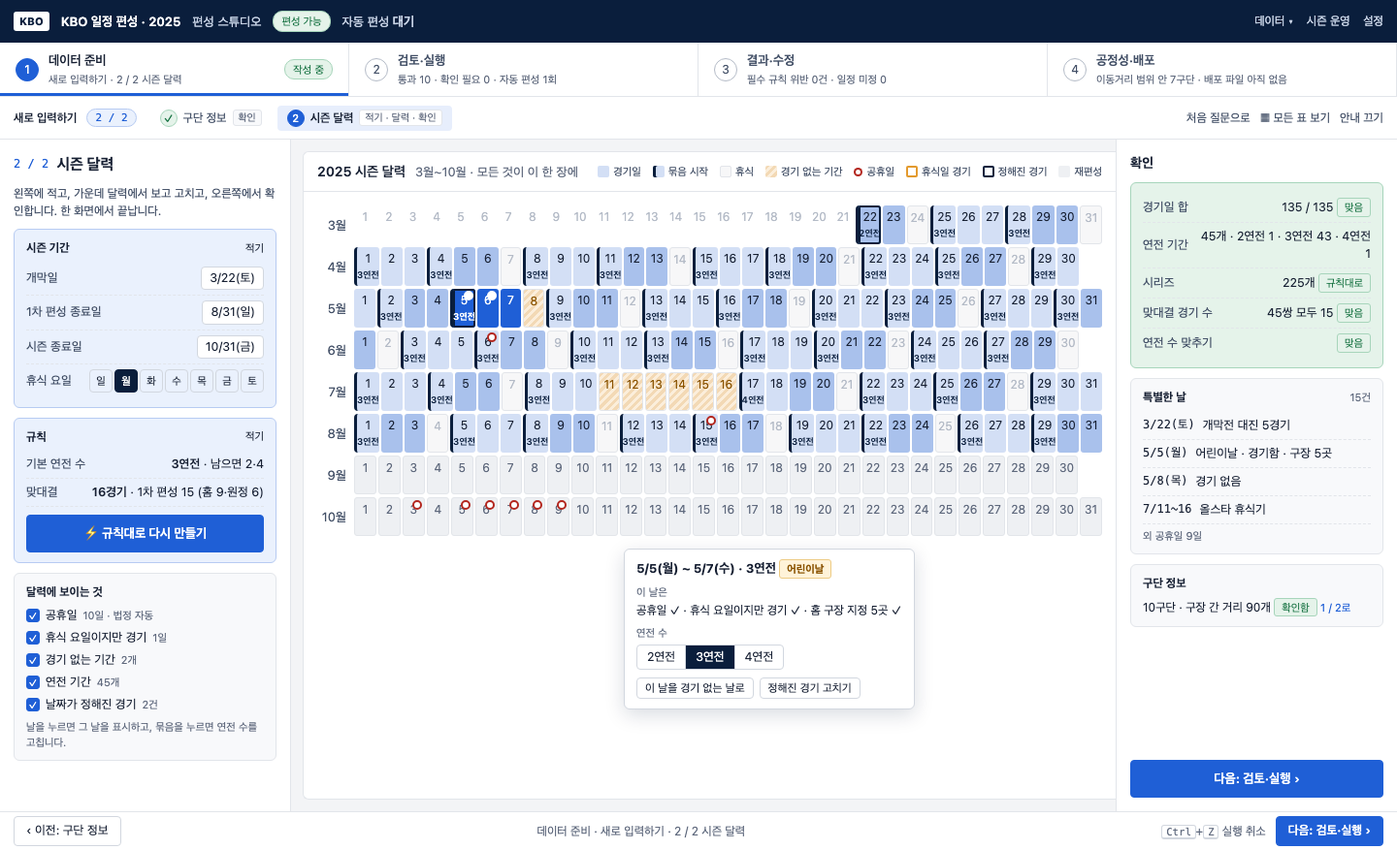
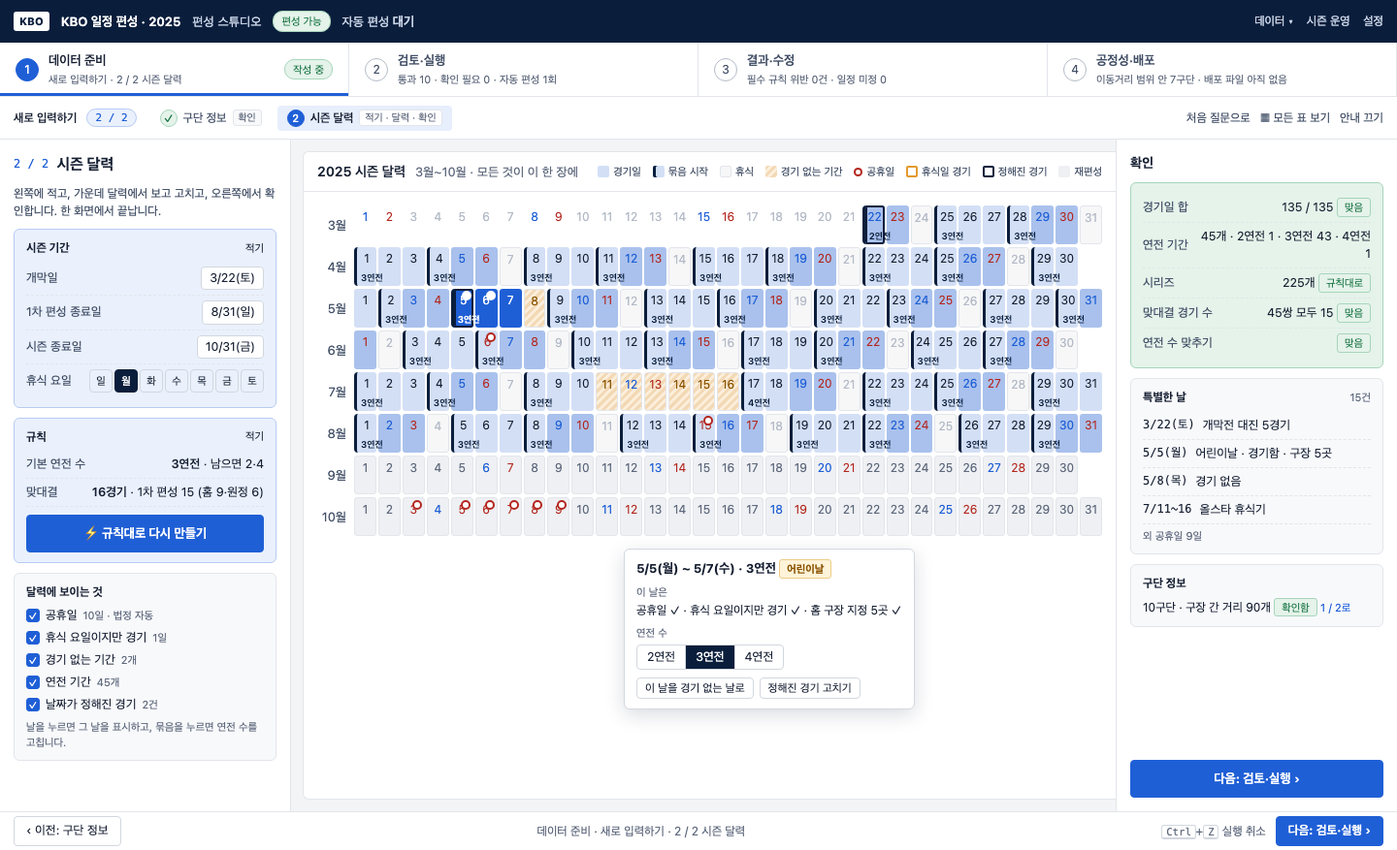
편성 스튜디오 ① 입력 흐름 추천안 R: 2025 공식 일정표(PDF)로 연전 관행을 확인해 규칙 4줄로 적고, 시즌 연도를 고르면 주말·공휴일이 먼저 표시되는 2027 달력 시안을 더한다(달력 색은 공식 표처럼 토 파랑·일/공휴일 빨강).
2027·2028 음력 공휴일·대체공휴일 표(검색 확인, 고시로 최종 확인 필요).

Changed region(s): [[0.25, 0.2463, 0.7812, 0.5542]]

diff --git a/ui-archive/input-flow-concepts/r-screen.js b/ui-archive/input-flow-concepts/r-screen.js
@@ -1,58 +1,74 @@
 /*
- * 추천안 R — 입력은 모두 한 화면(시즌 달력). r-calendar / r-tutorial / r-excel이 같이 쓴다.
- * 왼쪽: 구단 정보(접음) · 시즌 기간 · 공휴일(가중치) · 연전 규칙 / 가운데: 달력(끌어서 묶음, 눌러서 홈 구장) / 오른쪽: 고른 날 · 확인 · 엑셀
+ * 추천안 R — 입력은 모두 한 화면(시즌 달력). r-calendar / r-tutorial / r-excel / r-2027이 같이 쓴다.
+ * 왼쪽: 구단 정보(접음) · 시즌 기간(연도 고르기) · 공휴일(가중치) · 연전 규칙 / 가운데: 달력(끌어서 묶음, 눌러서 홈 구장) / 오른쪽: 고른 날 · 확인 · 엑셀
+ * 연전 규칙은 「2025 KBO 정규시즌 경기 일정」 공식 표(PDF)에서 읽은 관행이다.
  */
 (function () {
   'use strict';
   const C = window.Concept;
-  const S = Object.assign({}, C.S2025, { restExceptions: [], blackouts: [] }); // 묶음이 곧 경기일: 휴식기·휴식일 경기는 따로 적지 않는다
   const base = C.slots(C.S2025); // 2025 실제 묶음 45개(올스타 휴식기는 묶음이 없는 것으로 표현)
   const W = (h) => (/어린이날/.test(h.name) ? 3 : 2);
-  const sel = (o) => (o.sel ? base.findIndex((s) => C.D.iso(s.start) === o.sel) : -1);
+  const WDN = ['일', '월', '화', '수', '목', '금', '토'];
 
   window.renderR = function (o) {
     o = o || {};
-    C.chrome({ at: 1, noBand: true, prev: null, next: '검토·실행', mode: '한 화면 입력', sum: '시즌 달력 한 화면 · 경기일 135 / 135', pill: 'ok', pillText: '편성 가능', steps: [{ name: '시즌 달력' }] });
-    const hol = S.holidays.filter((h) => h.date <= S.initialEnd);
+    const blank = !!o.blank, year = o.year || 2025;
+    const S = o.S || Object.assign({}, C.S2025, { restExceptions: [], blackouts: [] }); // 묶음이 곧 경기일: 휴식기·휴식일 경기는 따로 적지 않는다
+    const slots = blank ? [] : base;
+    const have = slots.reduce((s, x) => s + x.len, 0), hist = C.hist(slots);
+    const cnt = have === 135 ? '<span class="stat ok">맞음</span>' : '<span class="stat todo">' + (135 - have) + '일 남음</span>';
+    const cntStyle = have === 135 ? 'border:1px solid var(--ok-line);background:var(--ok-bg);color:var(--ok)' : 'border:1px solid var(--line-2);background:var(--surface-2);color:var(--text-2)';
+    C.chrome({ at: 1, noBand: true, prev: null, next: '검토·실행', mode: '한 화면 입력', sum: '시즌 달력 한 화면 · 경기일 ' + have + ' / 135', pill: blank ? 'todo' : 'ok', pillText: blank ? '작성 중' : '편성 가능', steps: [{ name: '시즌 달력' }] });
+    const hol = (blank ? C.holidaysOf(year) : S.holidays).filter((h) => h.date.slice(5) >= '03' && h.date.slice(5) <= (blank ? '08-31' : S.initialEnd.slice(5)));
+    const dv = (iso) => (iso ? C.D.short(C.D.dn(iso)) + '(' + WDN[C.D.wd(C.D.dn(iso))] + ')' : '');
     const left =
       '<aside class="card" style="width:330px;gap:8px;padding:10px 12px">' +
       '<div class="box" style="padding:8px 12px"><h4 style="margin:0">구단 정보 <span class="r"><span class="stat ok">확인함</span><a class="xs">펼쳐서 고치기 ▾</a></span></h4><div class="xs muted" style="margin-top:2px">10구단 · 구장 위치 · 구장 간 거리 90개(도로 45쌍)</div></div>' +
       '<div class="box blue"><h4>시즌 기간 <span class="r xs">적기</span></h4>' +
-      fld('개막일', '3/22(토)') + fld('1차 편성 종료일', '8/31(일)') + fld('시즌 종료일', '10/31(금)') +
-      '<div class="line"><span class="k">휴식 요일</span><span class="v wd" style="gap:2px">' + ['일', '월', '화', '수', '목', '금', '토'].map((d) => '<span style="width:22px;height:22px;font-size:11px"' + (d === '월' ? ' class="on"' : '') + '>' + d + '</span>').join('') + '</span></div>' +
-      '<div class="xs muted" style="margin-top:4px">1차 편성 15경기 × 9상대 = <b>경기일 135일</b>이 필요합니다. 9월~10월은 재편성 기간입니다.</div></div>' +
+      '<div class="line"><span class="k">시즌 연도</span><span class="v"><span style="display:inline-block;border:1px solid var(--line-2);border-radius:4px;padding:1px 8px;background:#fff;font-weight:600">' + year + ' ▾</span> <span class="xs muted">고르면 주말·공휴일이 달력에 표시됩니다</span></span></div>' +
+      fld('개막일', dv(S.seasonStart), blank) + fld('1차 편성 종료일', dv(S.initialEnd), blank) + fld('시즌 종료일', dv(S.seasonEnd), blank) +
+      '<div class="line"><span class="k">휴식 요일</span><span class="v wd" style="gap:2px">' + WDN.map((d) => '<span style="width:22px;height:22px;font-size:11px"' + (d === '월' ? ' class="on"' : '') + '>' + d + '</span>').join('') + '</span></div>' +
+      '<div class="xs muted" style="margin-top:4px">1차 편성 15경기 × 9상대 = <b>경기일 135일</b>이 필요합니다. 그 뒤는 미편성 45경기 + 우천 취소분을 넣는 재편성 기간입니다.</div></div>' +
+      '<div class="box"><h4>연전 규칙 <span class="r"><span class="stat ok" style="font-size:10px">2025 공식 일정표로 확인</span></span></h4>' +
+      '<div class="line"><span class="k">기본</span><span class="v">화·수·목 <b>3연전</b> / 금·토·일 <b>3연전</b> · 월요일 휴식</span></div>' +
+      '<div class="line"><span class="k">개막 주</span><span class="v">개막일부터 일요일까지 한 묶음(토 개막 → 2연전)</span></div>' +
+      '<div class="line"><span class="k">월요일 공휴일</span><span class="v">그 날 경기, 목요일 휴식(어린이날 월·화·수)</span></div>' +
+      '<div class="line"><span class="k">올스타 휴식기</span><span class="v">금~수 6일 · 뒤 목~일 <b>4연전</b></span></div>' +
+      '<div style="margin-top:8px"><span class="btn pri big">⚡ 규칙대로 채우기</span></div><div class="xs muted" style="margin-top:6px">채운 뒤 달력에서 끌어서 고칩니다. 묶음이 없는 날이 경기 없는 날입니다.</div></div>' +
       '<div class="box blue"><h4>공휴일 <span class="r"><span class="btn sm">⚡ 법정 공휴일 채우기</span></span></h4>' +
       '<table class="t" style="font-size:12px"><tr><th>날짜</th><th>이름</th><th class="num">가중치</th></tr>' +
-      hol.map((h) => '<tr><td class="mono">' + C.D.short(C.D.dn(h.date)) + '</td><td>' + h.name + '</td><td class="num"><span style="border:1px solid var(--line-2);border-radius:3px;padding:0 6px;background:#fff">' + W(h) + '</span></td></tr>').join('') +
+      hol.map((h) => '<tr><td class="mono">' + dv(h.date) + '</td><td>' + h.name + '</td><td class="num"><span style="border:1px solid var(--line-2);border-radius:3px;padding:0 6px;background:#fff">' + W(h) + '</span></td></tr>').join('') +
       '</table><div style="display:flex;gap:8px;align-items:center;margin-top:6px"><span class="btn sm">+ 줄 추가</span><span class="xs muted">가중치 = 홈 경기 공정성에서 이 날의 가치(주말 하루 1)</span></div>' +
-      '<div class="xs" style="margin-top:4px"><span class="stat warn" style="font-size:10px">기본값(공휴일 2 · 어린이날 3)은 KBO 확인 필요</span></div></div>' +
-      '<div class="box"><h4>연전 규칙</h4><div class="line"><span class="k">기본</span><span class="v"><b>3연전</b> · 주중 화~목 / 주말 금~일</span></div><div class="line"><span class="k">남는 날</span><span class="v">2일 → 2연전 · 4일 → 4연전</span></div>' +
-      '<div style="margin-top:8px"><span class="btn pri big">⚡ 규칙대로 채우기</span></div><div class="xs muted" style="margin-top:6px">채운 뒤 달력에서 끌어서 고칩니다. <span class="stat warn" style="font-size:10px">규칙 문구는 첨부 파일로 확정</span></div></div>' +
+      '<div class="xs" style="margin-top:4px"><span class="stat warn" style="font-size:10px">기본값(공휴일 2 · 어린이날 3)은 KBO 확인 필요</span>' + (blank ? ' <span class="xs muted">' + year + '년 음력 공휴일·대체공휴일은 내장 표에서</span>' : '') + '</div></div>' +
       '</aside>';
-    const si = sel(o);
+    const si = o.sel ? slots.findIndex((s) => C.D.iso(s.start) === o.sel) : -1;
     const main =
       '<main class="main" style="margin:12px 0 12px 12px;border-radius:6px 0 0 6px;border-right:0">' +
-      '<div class="head" style="padding:8px 14px"><b style="white-space:nowrap">시즌 달력</b><span class="desc" style="white-space:nowrap">3월~8월 · 1차 편성 기간</span>' +
-      '<span style="margin-left:10px;display:inline-flex;align-items:center;gap:8px;border:1px solid var(--ok-line);background:var(--ok-bg);border-radius:6px;padding:3px 12px;white-space:nowrap"><span style="font-size:15px;font-weight:700;color:var(--ok)">경기일 135 / 135일</span><span class="stat ok">맞음</span></span>' +
-      '<span class="small muted" style="white-space:nowrap">2연전 1 · 3연전 43 · 4연전 1 · 묶음 45개</span></div>' +
+      '<div class="head" style="padding:8px 14px"><b style="white-space:nowrap">' + year + ' 시즌 달력</b><span class="desc" style="white-space:nowrap">3월~8월 · 1차 편성 기간</span>' +
+      '<span style="margin-left:10px;display:inline-flex;align-items:center;gap:8px;border-radius:6px;padding:3px 12px;white-space:nowrap;' + cntStyle + '"><span style="font-size:15px;font-weight:700">경기일 ' + have + ' / 135일</span>' + cnt + '</span>' +
+      '<span class="small muted" style="white-space:nowrap">' + (blank ? '아직 묶음이 없습니다 — 「규칙대로 채우기」나 끌어서 만듭니다' : '2연전 ' + (hist[2] || 0) + ' · 3연전 ' + (hist[3] || 0) + ' · 4연전 ' + (hist[4] || 0) + ' · 묶음 ' + slots.length + '개') + '</span></div>' +
       '<div class="body2" style="position:relative;padding:8px 14px 12px" id="rcal">' +
-      '<div style="display:flex;justify-content:flex-end;margin-bottom:6px">' + C.legend([['game', '경기일'], ['ss', '묶음 시작'], ['rest', '경기 없음'], ['hol', '공휴일'], ['ev', '홈 구장 지정'], ['sel', '고른 묶음']]) + '</div>' +
-      C.strip({ S, from: 3, to: 8, slots: base, big: true, sel: si, onCell: o.onCell }) +
-      '<div class="small muted" style="margin-top:10px;display:flex;gap:18px"><span>⟷ 날짜를 <b>끌면</b> 연전 묶음(2·3·4연전)</span><span>▣ 묶음을 <b>누르면</b> 연전 수 바꾸기 · 지우기</span><span>○ 날을 <b>누르면</b> 홈 구장 지정</span><span>7/11~16은 묶음이 없어 경기 없음(올스타)</span></div>' +
+      '<div style="display:flex;justify-content:flex-end;margin-bottom:6px">' + C.legend([['game', '경기일'], ['ss', '묶음 시작'], ['rest', '경기 없음'], ['hol', '공휴일(빨강)'], ['sat', '토요일(파랑)'], ['ev', '홈 구장 지정'], ['sel', '고른 묶음']]) + '</div>' +
+      C.strip({ S, year, from: 3, to: 8, slots, big: true, sel: si, onCell: o.onCell, noGame: blank, layers: blank ? { range: 0, event: 0 } : {} }) +
+      '<div class="small muted" style="margin-top:10px;display:flex;gap:18px"><span>⟷ 날짜를 <b>끌면</b> 연전 묶음(2·3·4연전)</span><span>▣ 묶음을 <b>누르면</b> 연전 수 바꾸기 · 지우기</span><span>○ 날을 <b>누르면</b> 홈 구장 지정</span>' + (blank ? '<span>주말·공휴일은 연도에서 자동(공식 일정표처럼 토 파랑 · 일·공휴일 빨강)</span>' : '<span>7/11~16은 묶음이 없어 경기 없음(올스타)</span>') + '</div>' +
       (o.pop || '') +
       '</div></main>';
-    const right =
-      '<aside class="card" style="width:280px;border-left:1px solid var(--line);border-right:0;gap:10px">' +
+    const pick = blank ?
+      '<div class="box"><h4>고른 날</h4><div class="small muted">달력에서 날을 누르면 여기서 홈 구장을 지정합니다(개막전·어린이날). 공휴일은 왼쪽 표에서 적습니다.</div></div>' :
       '<div class="box blue"><h4>고른 날 · 5/5(월) <span class="r xs muted">어린이날·부처님오신날</span></h4>' +
       '<div class="line"><span class="k">연전</span><span class="v">5/5(월)~5/7(수) 3연전</span></div><div class="line"><span class="k">공휴일</span><span class="v">가중치 3 <span class="xs muted">(왼쪽 표)</span></span></div>' +
       '<div style="margin-top:8px"><span class="tog"><i class="on"></i><b>홈 구장 지정</b></span><div class="xs muted" style="margin:2px 0 6px">이 날 홈 경기를 해야 하는 구단 5곳을 고릅니다. 상대는 자동 편성이 정합니다.</div>' +
       '<div style="display:flex;flex-wrap:wrap;gap:4px">' + ['SSG', '두산', 'LG', 'KT', '키움', '한화', '삼성', 'KIA', 'NC', '롯데'].map((t) => '<span class="btn sm"' + (['두산', '키움', '한화', 'NC', '롯데'].includes(t) ? ' style="background:var(--navy);color:#fff;border-color:var(--navy)"' : '') + '>' + t + '</span>').join('') + '</div>' +
-      '<div class="xs muted" style="margin-top:6px">잠실은 두산·LG 중 하나만. 개막전 3/22도 같은 방법으로.</div></div></div>' +
-      '<div class="box ok"><h4>확인</h4><div class="line"><span class="k">경기일 합</span><span class="v">135 / 135 <span class="stat ok">맞음</span></span></div><div class="line"><span class="k">홈 구장 지정</span><span class="v">3/22 개막전 5곳 · 5/5 어린이날 5곳</span></div><div class="line"><span class="k">시리즈</span><span class="v">규칙대로 225개 <span class="stat ok">맞음</span></span></div><div class="xs muted" style="margin-top:4px">맞대결 16경기 = 1차 편성 15(홈 9·원정 6) + 재편성 1. 날짜는 ② 자동 편성이 정합니다. <a>자세히</a></div></div>' +
+      '<div class="xs muted" style="margin-top:6px">잠실은 두산·LG 중 하나만. 개막전 3/22도 같은 방법으로.</div></div></div>';
+    const right =
+      '<aside class="card" style="width:280px;border-left:1px solid var(--line);border-right:0;gap:10px">' + pick +
+      '<div class="box ' + (blank ? '' : 'ok') + '"><h4>확인</h4><div class="line"><span class="k">경기일 합</span><span class="v">' + have + ' / 135 ' + cnt + '</span></div><div class="line"><span class="k">홈 구장 지정</span><span class="v">' + (blank ? '<span class="stat todo">아직 없음</span>' : '3/22 개막전 5곳 · 5/5 어린이날 5곳') + '</span></div><div class="line"><span class="k">시리즈</span><span class="v">' + (blank ? '<span class="stat todo">묶음 45개 뒤 규칙으로</span>' : '규칙대로 225개 <span class="stat ok">맞음</span>') + '</span></div><div class="xs muted" style="margin-top:4px">맞대결 16경기 = 1차 편성 15(홈 9·원정 6) + 미편성 1(홈 정해 둠, 재편성에서). 날짜는 ② 자동 편성이 정합니다. <a>자세히</a></div></div>' +
       '<div class="box"><h4>엑셀로 한꺼번에</h4><div style="display:flex;flex-direction:column;gap:6px"><span class="btn sm">⬇ 지금 데이터로 서식 내려받기</span><span class="btn sm">⬆ 채운 파일 올리기</span></div><div class="xs muted" style="margin-top:6px">시트 4개: 구단 정보 · 시즌 기간과 공휴일 · 연전 기간 · 홈 구장 지정</div></div>' +
       '<div style="margin-top:auto"><span class="btn sm ghost">▶ 따라 하기 다시 보기</span></div>' +
       '</aside>';
     document.querySelector('.body').innerHTML = left + main + right;
   };
-  function fld(k, v) { return '<div class="line"><span class="k">' + k + '</span><span class="v"><span style="display:inline-block;border:1px solid var(--line-2);border-radius:4px;padding:1px 8px;background:#fff;min-width:80px">' + v + '</span></span></div>'; }
+  function fld(k, v, blank) {
+    return '<div class="line"><span class="k">' + k + '</span><span class="v"><span style="display:inline-block;border:1px ' + (v ? 'solid var(--line-2)' : 'dashed var(--line-3)') + ';border-radius:4px;padding:1px 8px;background:#fff;min-width:80px;' + (v ? '' : 'color:var(--text-3)') + '">' + (v || '적어 주세요') + '</span>' + (blank && !v ? '' : '') + '</span></div>';
+  }
 })();

diff --git a/ui-archive/input-flow-concepts/index.html b/ui-archive/input-flow-concepts/index.html
@@ -59,11 +59,12 @@
   <div class="shots">
     <figure><img src="shots/r-calendar.png" alt=""><figcaption><b>시즌 달력 한 화면</b> — 머리에 「경기일 135 / 135일」 계수기, 7/17 4연전 묶음을 눌러 연전 수·나누기·지우기, 5/5를 눌러 오른쪽에서 홈 구장 5곳 <a href="r-calendar.html">열기</a></figcaption></figure>
     <figure><img src="shots/r-tutorial.png" alt=""><figcaption><b>따라 하기 1 / 4</b> — 처음 한 번, 2025 예시로 「4/8~4/10을 끌어 보세요」 → 묶음 눌러 연전 수 → 어린이날 눌러 홈 구장 → 경기일 합 맞추기 <a href="r-tutorial.html">열기</a></figcaption></figure>
+    <figure><img src="shots/r-2027.png" alt=""><figcaption><b>2027년을 고르면</b> — 개막일을 적기 전에도 주말(토 파랑 · 일 빨강)과 공휴일(빨강 ○, 왼쪽 표에 2027 공휴일)이 먼저 표시됩니다. 공식 일정표의 색 규칙과 같습니다 <a href="r-2027.html">열기</a></figcaption></figure>
     <figure><img src="shots/r-excel.png" alt=""><figcaption><b>엑셀로 한꺼번에</b> — 지금 데이터가 채워진 서식(시트 4: 구단 정보 · 시즌 기간과 공휴일(가중치 열) · 연전 기간(비우면 규칙) · 홈 구장 지정)을 내려받아 고쳐 올리고, 검사 뒤 달력에 반영 <a href="r-excel.html">열기</a></figcaption></figure>
   </div>
   <div class="cols">
     <div class="good"><h4>장점</h4><ul><li>입력 화면이 하나 — 「입력인지 확인인지」 질문 자체가 사라짐</li><li>표 넷(공휴일·휴식일 경기·휴식기·특별 경기)이 표 하나(공휴일)와 메뉴 하나(홈 구장)로 줆</li><li>묶음을 그릴 때마다 경기일 합이 바로 보여 135에 맞추는 과정이 눈에 보임</li><li>엑셀·튜토리얼이 같은 화면에 붙어 흐름이 끊기지 않음</li></ul></div>
-    <div class="bad"><h4>단점 · 위험</h4><ul><li><b>연전 규칙이 아직 모호</b> — 규칙이 틀리면 「규칙대로 채우기」 뒤 고칠 곳이 많아져 손으로 그리는 것과 다름없어짐(첨부 파일로 확정 필요)</li><li>묶음 지우기(휴식기 만들기)가 끌기만큼 쉬워야 함</li><li>공휴일 가중치 기본값(2·3)은 KBO 확인 전까지 가정</li><li>코어 변경: 날짜별 가중치가 공정성 계산(calendar-gen·score·Java Calendar.holiday)까지 감</li></ul></div>
+    <div class="bad"><h4>단점 · 위험</h4><ul><li>연전 규칙은 2025 공식 일정표(PDF)로 확인함: 화·수·목 / 금·토·일 3연전, 월 휴식, 개막 토·일 2연전, 월요일 공휴일이면 그 날 경기·목 휴식, 올스타 휴식기 금~수 뒤 목~일 4연전 — 다른 해에도 같은지는 확인 필요</li><li>묶음 지우기(휴식기 만들기)가 끌기만큼 쉬워야 함</li><li>공휴일 가중치 기본값(2·3)은 KBO 확인 전까지 가정</li><li>코어 변경: 날짜별 가중치가 공정성 계산(calendar-gen·score·Java Calendar.holiday)까지 감</li></ul></div>
     <div class="who"><h4>누구에게 · 구현</h4><ul><li>해마다 편성하는 담당자(엑셀 왕복) + 처음 보는 사람(따라 하기) 모두</li><li>1440에서 세 칸(330 · 달력 · 280)이 들어감, 달력 셀 약 24px</li><li>구현 순서: 묶음 달력(끌기·누르기) → 계수기 → 홈 구장 패널 → 공휴일 가중치(코어) → 엑셀 서식·읽기 → 따라 하기</li></ul></div>
   </div>
 </section>
@@ -157,7 +158,12 @@
 
 <section id="q">
   <h2>확인이 필요한 것 (KBO 관행 — 추측하지 않고 묻습니다)</h2>
+  <div class="q" style="background:var(--ok-bg);border-color:#A7D5BB;margin-bottom:12px">
+    <b>2025 공식 일정표(PDF)로 확인된 것(2026-10-27)</b>
+    <ul><li>화·수·목 3연전 / 금·토·일 3연전, 월요일 휴식. 개막 3/22(토)~23(일) 2연전, 3/24(월) 휴식, 3/25(화)부터 3연전.</li><li>어린이날 5/5(월) 경기 — 5/5~5/7 월·화·수 3연전, 5/8(목) 휴식, 5/9(금)부터 다시 금·토·일.</li><li>올스타 브레이크 7/11(금)~7/16(수), 7/17(목)~7/20(일) 4연전.</li><li>1차 편성은 8/31(일)까지. 표 끝에 「미편성」 45경기(맞대결마다 1경기, 구장 정해져 있음)가 따로 있음 — 맞대결 16경기 = 1차 15 + 미편성 1.</li><li>공식 표의 색: 토요일 파랑, 일요일·공휴일 빨강(5/5·5/6·6/6·8/15). 시안의 달력도 같은 색으로 바꿈.</li></ul>
+  </div>
   <div class="q">
+    <b>아직 남은 것</b>
     <ul>
       <li><b>연전 기간 규칙</b>: 주중 화·수·목, 주말 금·토·일 3연전이 기본이고 월요일 휴식이 맞는지. 시안의 「기본 연전 수 3연전」 규칙 한 줄이 충분한지, 아니면 「주중/주말 따로」가 필요한지.</li>
       <li><b>개막 2연전</b>: 2025는 토요일 개막이라 토·일 2연전이 자동으로 나옵니다. 개막이 금요일이면 금·토·일 3연전이 되는데, 그래도 2연전으로 고정해야 하는지(그렇다면 규칙에 「개막은 2연전」을 따로 둡니다).</li>

diff --git a/ui-archive/input-flow-concepts/concept.js b/ui-archive/input-flow-concepts/concept.js
@@ -27,6 +27,23 @@
       { date: '2025-05-05', kind: 'STADIUM', name: '어린이날', stadiums: ['잠실', '고척', '대전', '창원', '사직'] }
     ]
   };
+  /**
+   * 연도별 공휴일(시즌 3~10월). 고정일은 해마다 같고, 음력(부처님오신날·추석)과 대체공휴일만 연도 표가 필요하다.
+   * 2027·2028은 2026-10-26 검색으로 확인(인사혁신처 고시로 최종 확인 필요).
+   */
+  const FIXED = [['03-01', '삼일절'], ['05-05', '어린이날'], ['06-06', '현충일'], ['08-15', '광복절'], ['10-03', '개천절'], ['10-09', '한글날']];
+  const LUNAR = {
+    2025: [['05-05', '부처님오신날'], ['05-06', '대체공휴일'], ['10-05', '추석 연휴'], ['10-06', '추석'], ['10-07', '추석 연휴'], ['10-08', '추석 대체공휴일']],
+    2026: [['05-24', '부처님오신날'], ['05-25', '대체공휴일'], ['08-17', '광복절 대체공휴일'], ['09-24', '추석 연휴'], ['09-25', '추석'], ['09-26', '추석 연휴'], ['10-05', '개천절 대체공휴일']],
+    2027: [['05-13', '부처님오신날'], ['08-16', '광복절 대체공휴일'], ['09-14', '추석 연휴'], ['09-15', '추석'], ['09-16', '추석 연휴'], ['10-04', '개천절 대체공휴일'], ['10-11', '한글날 대체공휴일']],
+    2028: [['05-02', '부처님오신날'], ['10-02', '추석 연휴'], ['10-03', '추석'], ['10-04', '추석 연휴'], ['10-05', '개천절 대체공휴일']]
+  };
+  C.holidaysOf = function (year) {
+    const m = new Map();
+    for (const [md, n] of FIXED) m.set(year + '-' + md, n);
+    for (const [md, n] of LUNAR[year] || []) { const k = year + '-' + md; m.set(k, m.has(k) ? m.get(k) + '·' + n : n); }
+    return Array.from(m.entries()).sort().map(([date, name]) => ({ date, name }));
+  };
   C.TEAMS = [['SSG', '문학경기장'], ['두산', '잠실종합운동장'], ['LG', '잠실종합운동장'], ['KT', '수원KT위즈파크'], ['키움', '고척돔야구장'], ['한화', '한화이글스파크'], ['삼성', '대구삼성라이언즈파크'], ['KIA', '광주챔피언스필드'], ['NC', '창원NC파크'], ['롯데', '사직야구장']].map(([name, stadium]) => ({ name, stadium }));
 
   /** 경기일인가: 경기 없는 기간 > 휴식일 경기 > 휴식 요일 */
@@ -57,19 +74,21 @@
     const rex = new Set(S.restExceptions.map(dn));
     const ev = new Map((S.events || []).map((e) => [dn(e.date), e]));
     const slotOf = new Map(); (o.slots || []).forEach((s, i) => { for (let k = 0; k < s.len; k++) slotOf.set(s.start + k, { i, k, s }); });
-    const a = dn(S.seasonStart), b = dn(S.initialEnd), e = dn(S.seasonEnd);
+    const year = o.year || String(S.seasonStart || S.year || '2025').slice(0, 4);
+    const a = S.seasonStart ? dn(S.seasonStart) : -Infinity, b = S.initialEnd ? dn(S.initialEnd) : Infinity, e = S.seasonEnd ? dn(S.seasonEnd) : Infinity;
     let h = '<div class="strip' + (o.big ? ' big' : '') + '">';
     for (let m = o.from; m <= o.to; m++) {
       h += '<div class="srow"><span class="m">' + m + '월</span><div class="sdays">';
       for (let d = 1; d <= 31; d++) {
-        const n = dn('2025-' + String(m).padStart(2, '0') + '-' + String(d).padStart(2, '0'));
+        const n = dn(year + '-' + String(m).padStart(2, '0') + '-' + String(d).padStart(2, '0'));
         if (mo(n) !== m) { h += '<span class="sd out"></span>'; continue; }
         const cls = ['sd'], tt = [fmt(n)];
         const w = wd(n), inSlot = slotOf.get(n);
+        if (w === 6) cls.push('sat'); if (w === 0) cls.push('sun');
         if (L.range && (n < a || n > e)) cls.push('off');
         else if (L.range && n > b) cls.push('re');
         if (L.slot && inSlot) { cls.push('game'); if (inSlot.k === 0) cls.push('ss'); if (inSlot.k === inSlot.s.len - 1) cls.push('se'); if (o.sel === inSlot.i) cls.push('sel'); tt.push(inSlot.s.len + '연전 ' + (inSlot.k + 1) + '일째'); }
-        else if (!L.slot && n >= a && n <= b && C.isGameDay(S, n)) cls.push('game');
+        else if (!L.slot && !o.noGame && n >= a && n <= b && C.isGameDay(S, n)) cls.push('game');
         else if (n >= a && n <= e) cls.push('rest');
         if (w === 0 || w === 6) cls.push('we');
         if (L.black && black.has(n)) { cls.push('black'); tt.push(black.get(n)); }

diff --git a/ui-archive/input-flow-concepts/r-2027.html b/ui-archive/input-flow-concepts/r-2027.html
@@ -1,0 +1,9 @@
+<!doctype html>
+<html lang="ko"><head><meta charset="utf-8"><title>추천안 R · 2027년을 고르면 — 주말·공휴일이 먼저 표시된 빈 달력</title>
+<link rel="stylesheet" href="concept.css"></head>
+<body><div class="body"></div>
+<script src="concept.js"></script><script src="r-screen.js"></script>
+<script>
+  // 2027년: 개막일 등은 아직 안 적었고, 연도만 골랐다. 주말(토 파랑·일 빨강)과 공휴일(빨강 ○)이 내장 표에서 바로 표시된다.
+  renderR({ blank: true, year: 2027, S: { seasonStart: '', initialEnd: '', seasonEnd: '', restWeekdays: [1], restExceptions: [], blackouts: [], holidays: Concept.holidaysOf(2027), events: [] } });
+</script></body></html>

diff --git a/ui-archive/input-flow-concepts/concept.css b/ui-archive/input-flow-concepts/concept.css
@@ -136,6 +136,9 @@ table.t tr.sel td { background: var(--sel); }
 .sd.off { background: transparent; color: var(--line-3); }
 .sd.re { background: #EEF0F3; color: var(--text-3); }
 .sd.black { background: repeating-linear-gradient(135deg, #F3D9B5 0 3px, #FBEEDB 3px 6px); color: var(--warn); }
+.strip .sd.sat { color: var(--blue); }
+.strip .sd.sun, .strip .sd.hol { color: var(--bad); }
+.strip .sd.sel { color: #fff !important; }
 .sd.hol::after { content: ''; position: absolute; top: 2px; right: 2px; width: 6px; height: 6px; border-radius: 50%; border: 2px solid var(--bad); background: #fff; }
 .sd.rex { box-shadow: inset 0 0 0 2px #E39A2E; }
 .sd.ev { box-shadow: inset 0 0 0 2px var(--navy); }
